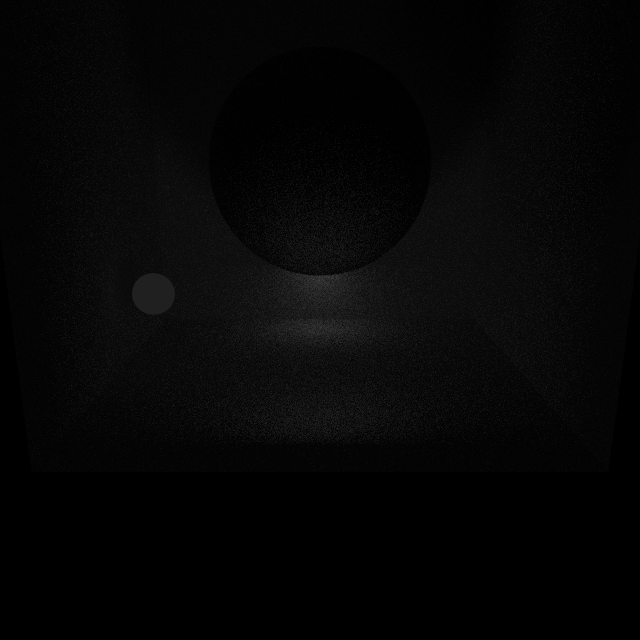
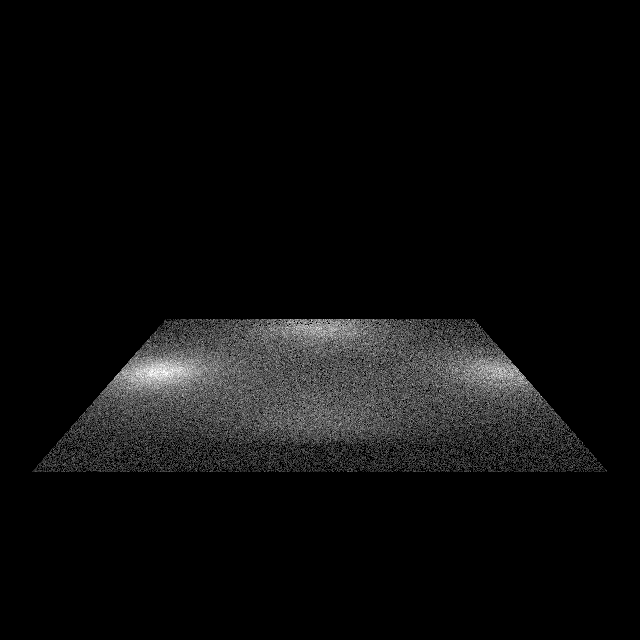
PointLight now has virtual radius and decays

Changed region(s): [[0.0625, 0.375, 0.9375, 0.75]]

diff --git a/src/main.cpp b/src/main.cpp
@@ -38,7 +38,7 @@ void render(const Scene& scene, RenderPlane& r_plane, size_t n_samples){
             std::optional<light_intersection> li   = scene.lighting->traceRayToLight(origin, direction);
 
             // light is our 1st priority!
-            if(li.has_value()){
+            if(li.has_value() && depth==1){
                 // if not obscured by geometry
                 if(!si.has_value() || length(si->position-origin) > length(li->position-origin)){
                     //if(depth>0)
@@ -118,9 +118,9 @@ void render(const Scene& scene, RenderPlane& r_plane, size_t n_samples){
 int main(){
 
     shared_ptr<CollectionLighting> lighting = make_shared<CollectionLighting>();
-    lighting->addPointLight(vec3{0.9f, 0.0f, -0.6f}, 1.0f);
+    lighting->addPointLight(vec3{0.9f, 0.0f, -0.8f}, 0.1f, 100.0f);
     // TODO Why it has non-proportional power?
-    lighting->addSphereLight(vec3{-0.8f, 0.0f, -0.60f}, 0.1f, 1.0f);
+    lighting->addSphereLight(vec3{-0.8f, 0.0f, -0.8f}, 0.1f, 20.0f);
     // radiates down
     lighting->addAreaLight(vec3{-0.1f, +0.8f-0.1f, -0.6f}, vec3(0.0f, 0.0f, -1.0f), vec3{0.0f, 0.2f, 0.0f}, 1.0f);
     // radiates forward
@@ -135,12 +135,12 @@ int main(){
 
     GridRenderPlane r_plane(640, 640);
 
-    render(scene, r_plane, 10);//*r_plane.width*r_plane.height);
+    render(scene, r_plane, 100);//*r_plane.width*r_plane.height);
 
     cout << "Max value = " << r_plane.max_value << endl;
 
 //    r_plane.smooth(2);
-    //r_plane.computeSmoothedMax(2);
+    r_plane.computeSmoothedMax(2);
 
     cout << "Smoothed max = " << r_plane.max_value << endl;
 

diff --git a/src/lighting/lighting.h b/src/lighting/lighting.h
@@ -30,10 +30,13 @@ public:
 };
 
 class PointLight:public Light {
+private:
+    float virtual_radius;
 public:
-    PointLight(glm::vec3 origin, float power=1.0f){
+    PointLight(glm::vec3 origin, float virtual_radius, float power=1.0f){
         this->position = origin;
         this->power = power;
+        this->virtual_radius = virtual_radius;
         area = 0.0f;
     }
 
@@ -43,8 +46,9 @@ public:
 
     virtual light_intersection sample() const override;
 
-    virtual float minDistanceTo(glm::vec3 point) const override {
-        return length(position-point);
+    virtual float minDistanceTo(glm::vec3) const override {
+        // TODO implement quadratic attenuation of point light more nicely
+        return virtual_radius;
     }
 };
 

diff --git a/src/CollectionLighting.cpp b/src/CollectionLighting.cpp
@@ -30,8 +30,8 @@ optional<light_intersection> CollectionLighting::traceRayToLight(glm::vec3 origi
     return res;
 }
 
-void CollectionLighting::addPointLight(vec3 position, float power){
-    lights.push_back(make_shared<const PointLight>(position, power));
+void CollectionLighting::addPointLight(vec3 position, float virtual_radius, float power){
+    lights.push_back(make_shared<const PointLight>(position, virtual_radius, power));
 }
 void CollectionLighting::addSphereLight(vec3 position, float radius, float power){
     lights.push_back(make_shared<const SphereLight>(position, radius, power));

diff --git a/src/CollectionLighting.h b/src/CollectionLighting.h
@@ -12,7 +12,7 @@ struct CollectionLighting: public Lighting {
     virtual std::shared_ptr<const Ddf> distributionInPoint(glm::vec3 pos) const;
     virtual std::optional<light_intersection> traceRayToLight(glm::vec3 origin, glm::vec3 direction) const;
 
-    void addPointLight(glm::vec3 position, float power=1.0f);
+    void addPointLight(glm::vec3 position, float virtual_radius, float power=1.0f);
     void addSphereLight(glm::vec3 position, float radius, float power=1.0f);
     void addAreaLight(glm::vec3 corner, glm::vec3 normal, glm::vec3 x_side, float power=1.0f);
 };

diff --git a/src/lighting/lighting.cpp b/src/lighting/lighting.cpp
@@ -58,12 +58,6 @@ glm::vec3 LightToDistribution::trySample() const {
         float decay = pow(distance, 2);
         float min_decay = pow(light->minDistanceTo(origin), 2);
 
-        // TODO implement quadratic attenuation of point light more nicely
-        // if singular
-        if(this->max_value == numeric_limits<float>::infinity()){
-            min_decay = 1.0f;
-        }
-
         if( randf() <= cosinus*min_decay/decay )
             break;
 //        else

diff --git a/test/test_main.cpp b/test/test_main.cpp
@@ -191,7 +191,7 @@ void test_singulars(){
     shared_ptr<const Ddf> mirror = make_shared<MirrorDdf>();
     assert(mirror->trySample()==vec3(0.0f, 0.0f, 1.0f));
 
-    PointLight p_light(vec3(0.0f, 0.0f, 1.0f));
+    PointLight p_light(vec3(0.0f, 0.0f, 1.0f), 0.1f);
     assert(p_light.area==0);
     assert(p_light.sample().position==vec3(0.0f, 0.0f, 1.0f));
 
